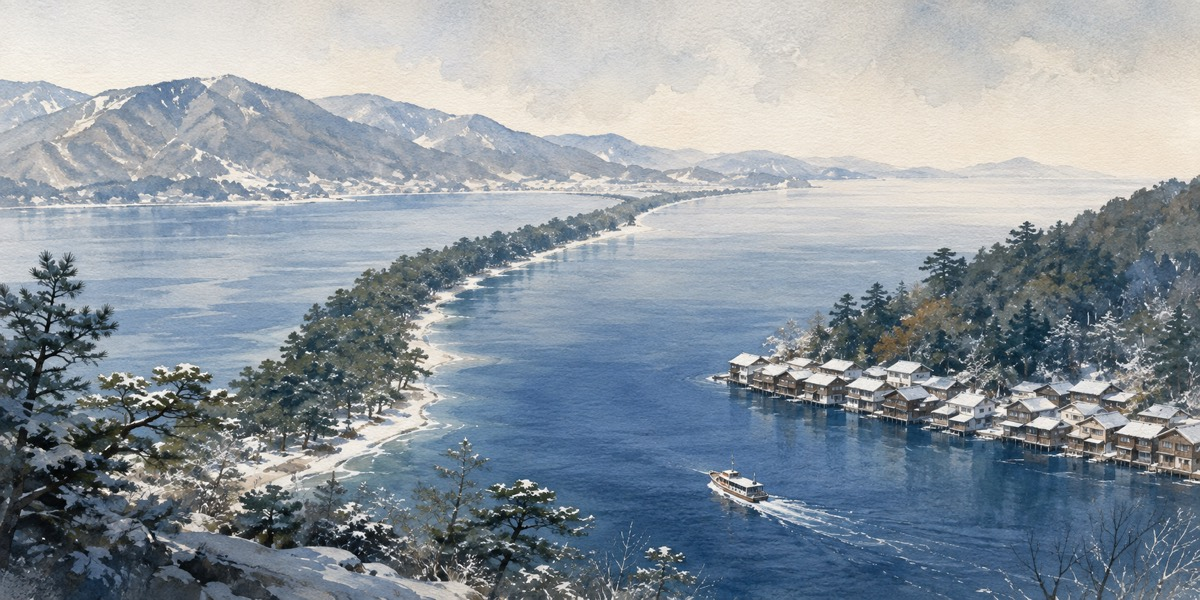
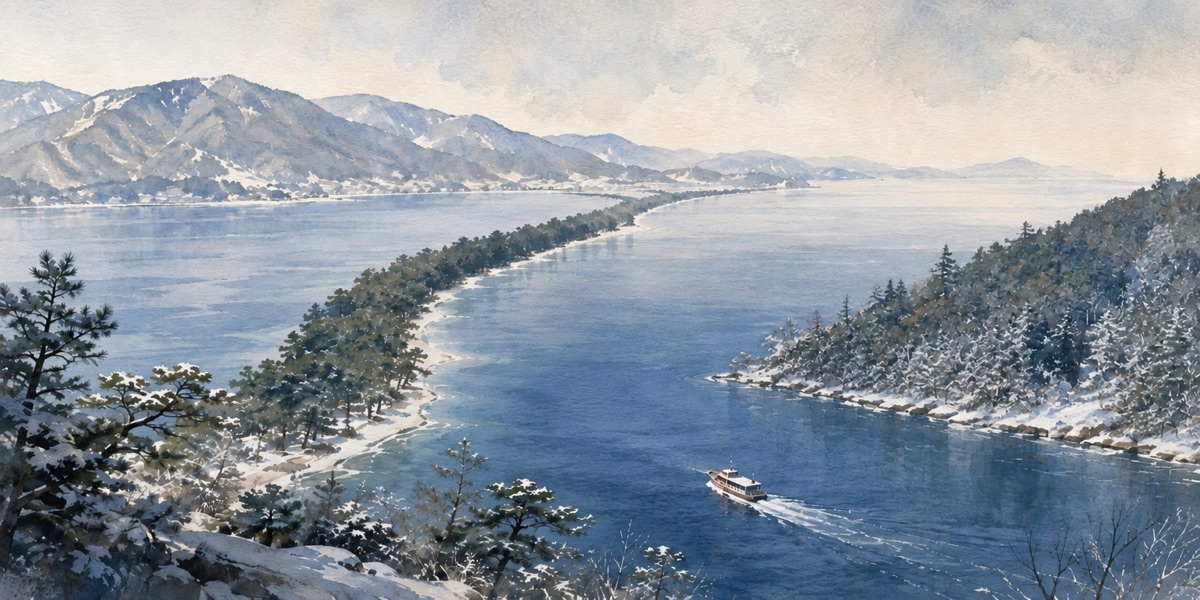
fix: 插圖對齊現行行程，移除伊根舟屋與岡山城
- Day 4 天橋立：右岸伊根舟屋改為松林山坡（行程已不去伊根）
- Day 6：岡山城改為吉備津神社本殿與木造迴廊，檔名與說明同步更新
- 首頁大圖：移除舟屋，山形與海色改得較接近山陰冬季海岸
- 以 gpt-image-2.6-flare 改圖模式修改原圖，保留原畫風

diff --git a/trip_discussion.html b/trip_discussion.html
@@ -1810,8 +1810,8 @@
       </section>
 
       <figure class="editorial-hero editorial-reveal editorial-delay-1">
-        <img src="assets/day-illustrations/day-06-okayama-garden-castle.jpg" width="1200" height="600" loading="lazy" decoding="async" alt="雪覆庭園中的岡山城與長廊，旅人沿著石徑朝冬日庭園前行">
-        <figcaption class="editorial-hero-caption"><p>Castle, garden, corridor</p><h3>早餐後，走向吉備津長迴廊</h3></figcaption>
+        <img src="assets/day-illustrations/day-06-kibitsu-shrine-corridor.jpg" width="1200" height="600" loading="lazy" decoding="async" alt="雪覆庭園旁的吉備津神社本殿與木造長迴廊，旅人沿著石徑前行">
+        <figcaption class="editorial-hero-caption"><p>Shrine, snow, corridor</p><h3>早餐後，走向吉備津長迴廊</h3></figcaption>
       </figure>
 
       <section class="editorial-pulse editorial-reveal editorial-delay-2" aria-label="Day 6 的岡山節奏"><header><p class="editorial-pulse-label">Breakfast, then rail</p><h3>留足早餐，<br>午後走吉備津</h3><p>觀水庭早餐自費；10:02 直達岡山、下午吉備津參拜，回站後採買大統領。2027 車次與寄物待核。</p></header><div class="editorial-beats"><div class="editorial-beat"><strong>10:02 參考</strong><span>早餐後直達岡山</span></div><div class="editorial-beat"><strong>13:52 參考</strong><span>吉備線去吉備津</span></div><div class="editorial-beat"><strong>16:30</strong><span>表町採買大統領</span></div></div></section>
